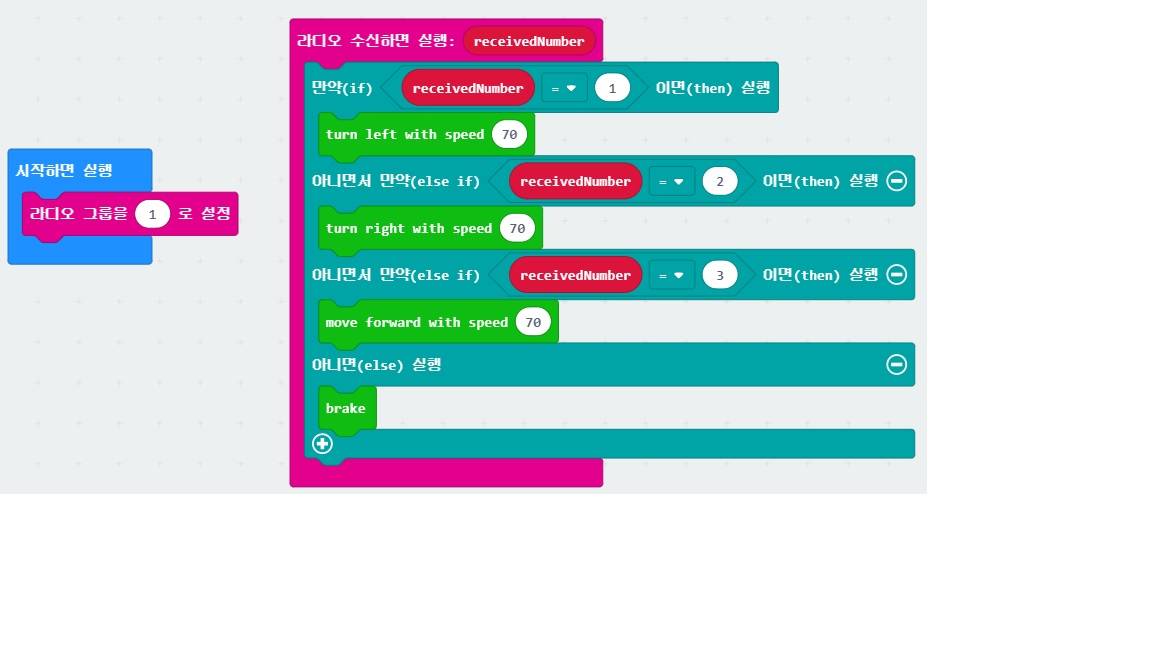
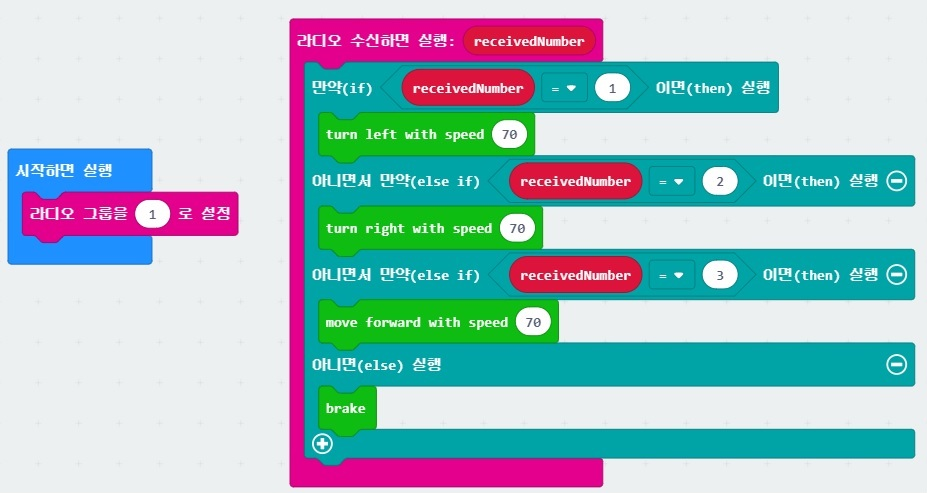
Modify microbit_car images

diff --git a/_posts/2019-12-24-microbit-car.md b/_posts/2019-12-24-microbit-car.md
@@ -54,11 +54,11 @@ radio.setGroup(1)
 <br>
 ## 사진
 ###### Car
-![car]({{ site.url }}{{ site.baseurl }}/assets/images/microbit_car/car.jpg)
+![car]({{ site.url }}{{ site.baseurl }}/assets/images/microbit_car/car.jpg){: width="100%" height="100%"}
 <br><br>
 ###### Receiver microbit
-![receiver_microbit]({{ site.url }}{{ site.baseurl }}/assets/images/microbit_car/Receive_microbit.jpg)
+![receiver_microbit]({{ site.url }}{{ site.baseurl }}/assets/images/microbit_car/Receive_microbit.jpg){: width="100%" height="100%"}
 <br><br>
 ###### Sender microbit
-![sender_microbit]({{ site.url }}{{ site.baseurl }}/assets/images/microbit_car/Sender_microbit.jpg)
+![sender_microbit]({{ site.url }}{{ site.baseurl }}/assets/images/microbit_car/Sender_microbit.jpg){: width="100%" height="100%"}
 
